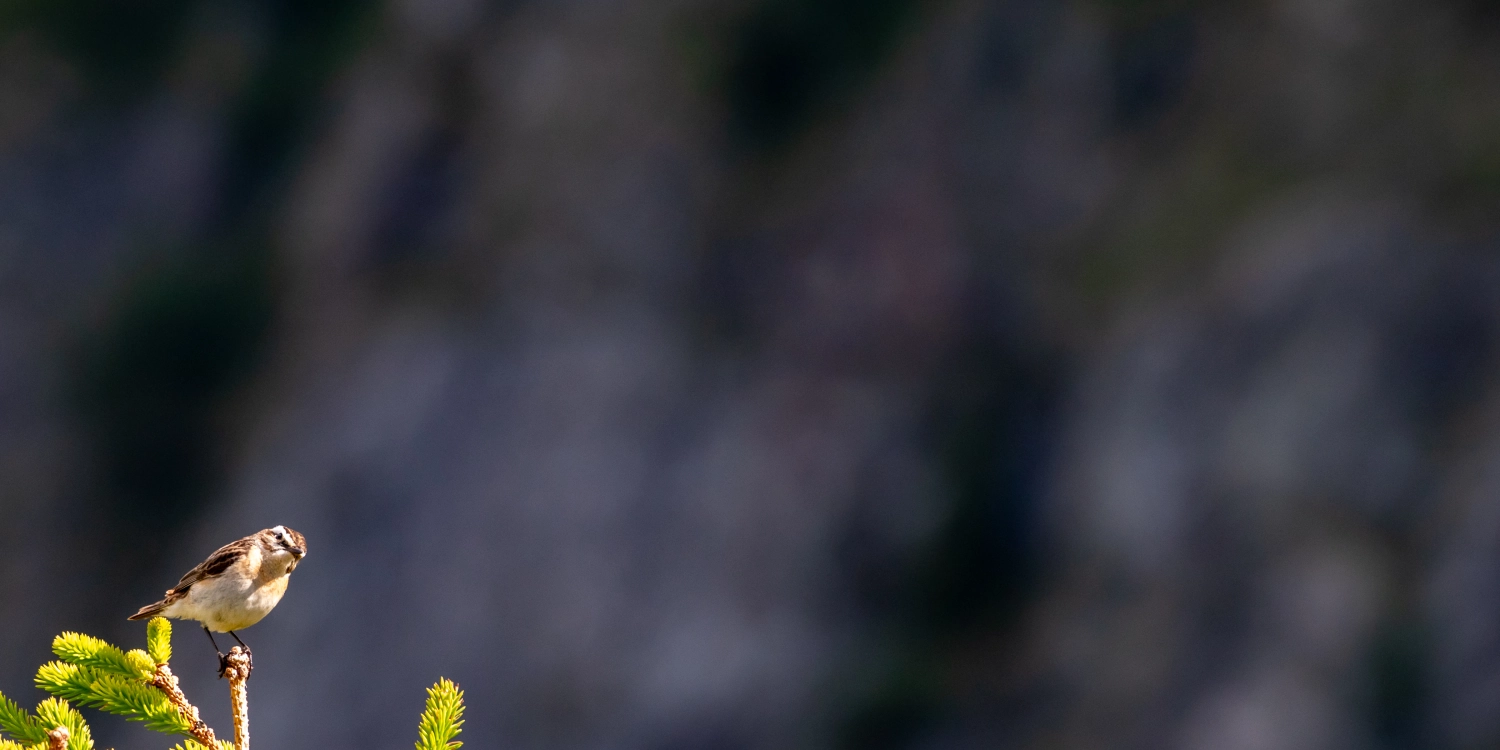
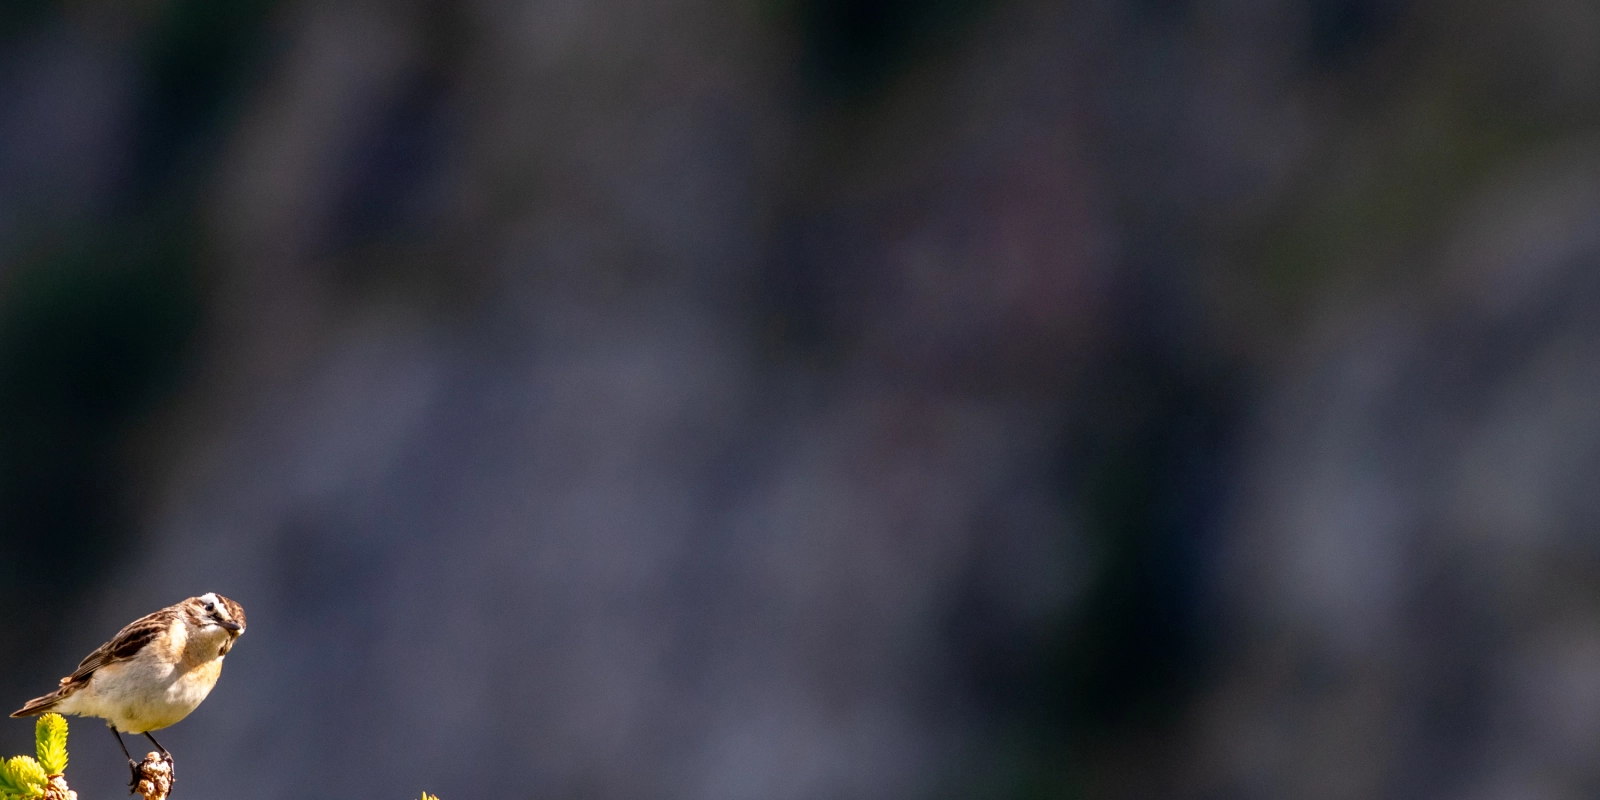
tweaked responsive background image for laptop sizing

diff --git a/styles.css b/styles.css
@@ -132,7 +132,7 @@ ul.list-links a:hover .image-wrapper.link-icon-wrapper{
     background-color: var(--link-icons-filler-active-background);
 }
 
-@media only screen and (max-width: 1500px) {
+@media only screen and (max-width: 1600px) {
     body{
         background-image: var(--page-laptop-background-image);
         background-position-x: left;
